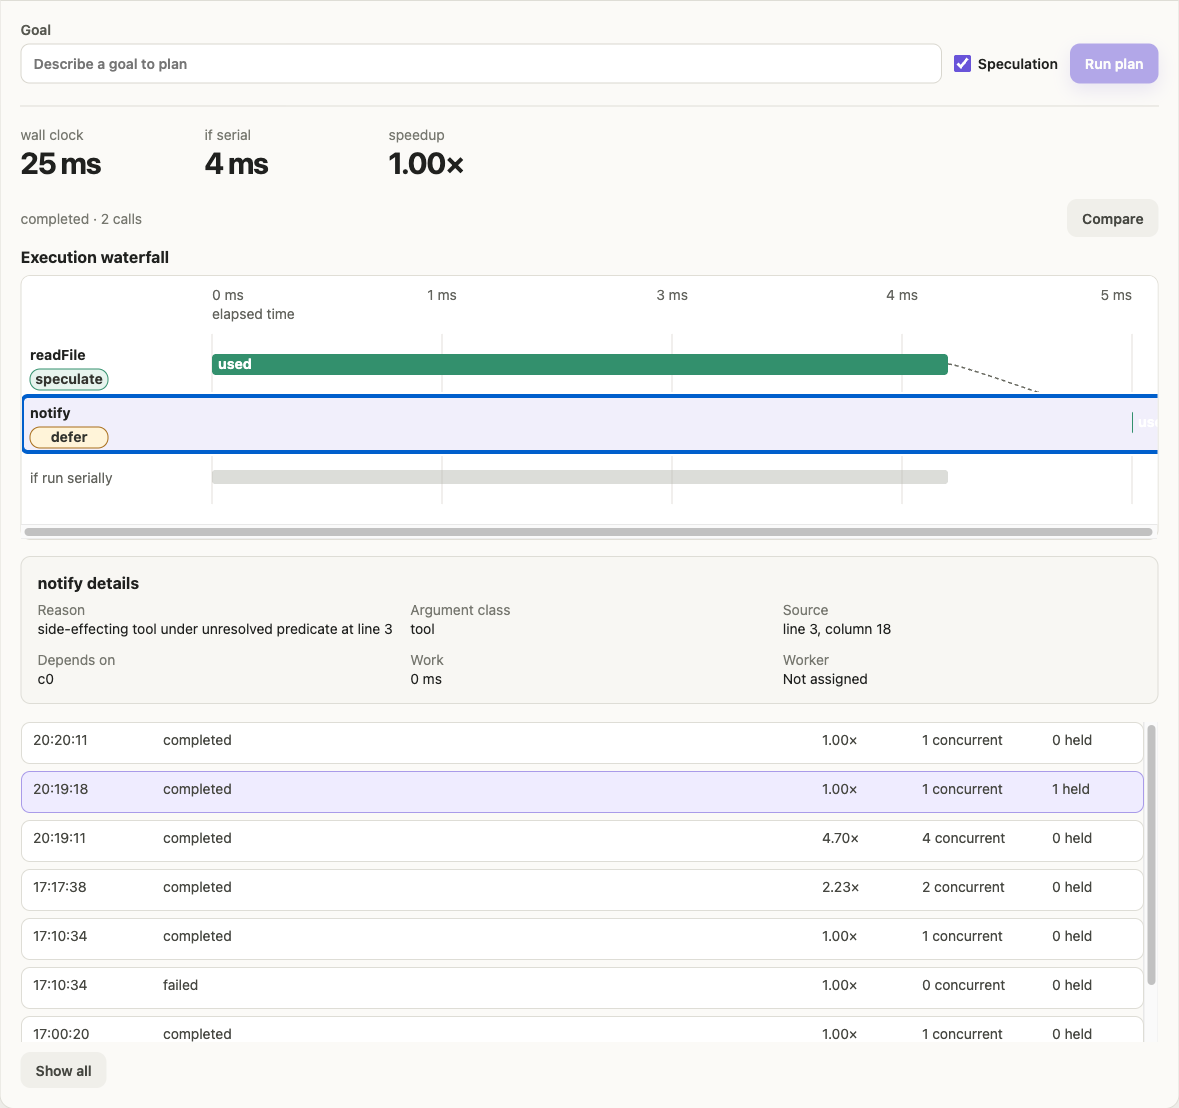
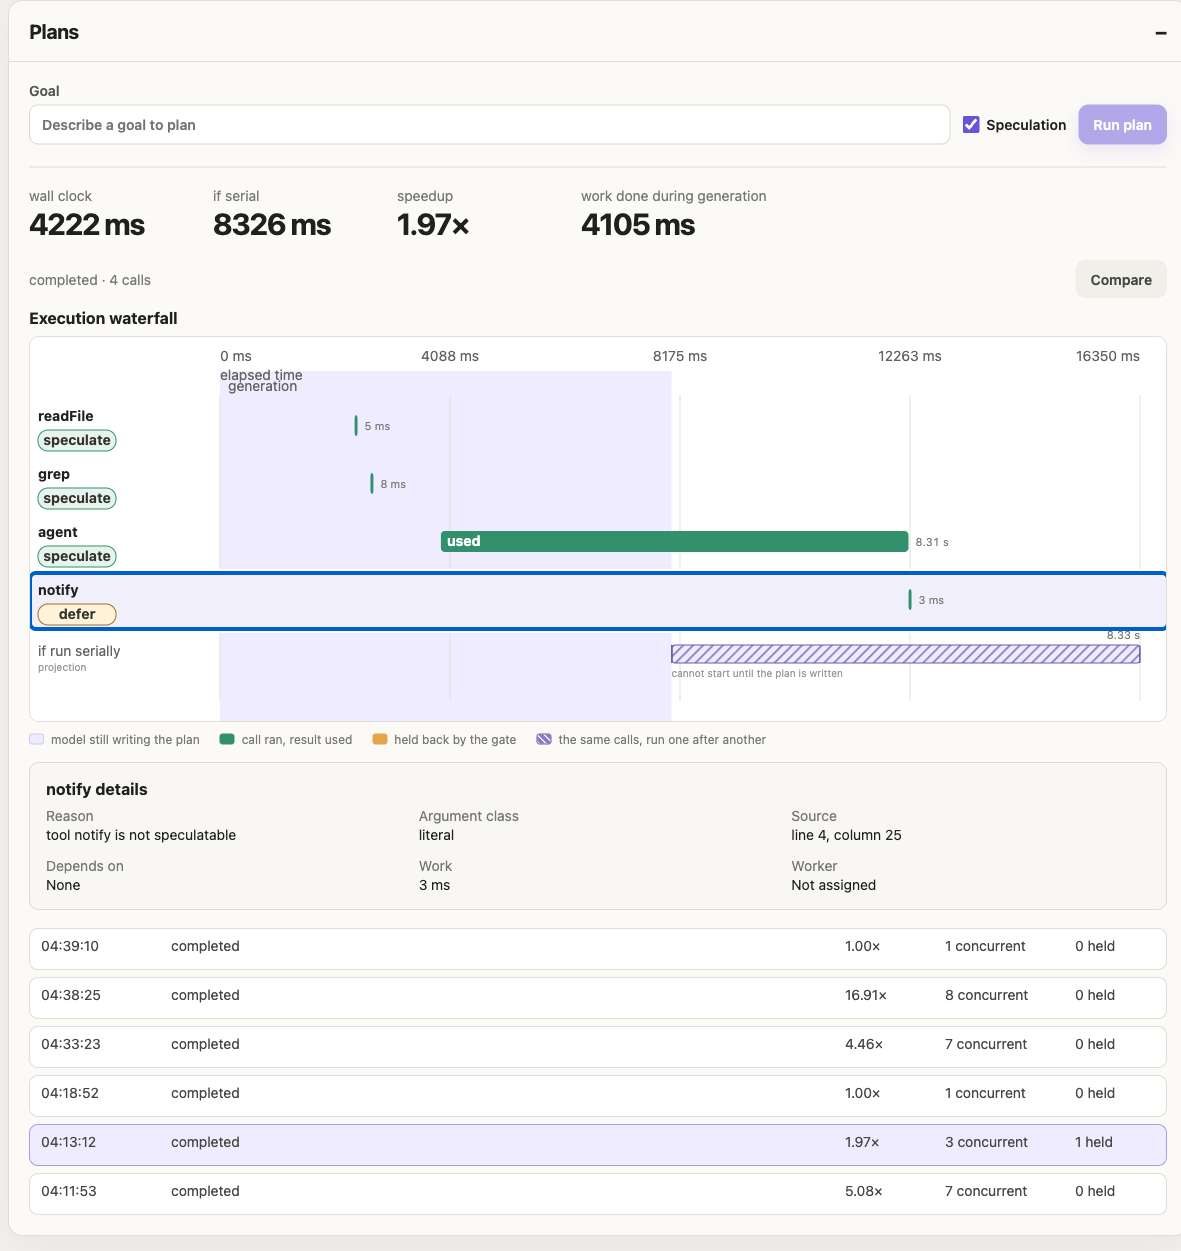
feat: make the waterfall readable as a waterfall
The chart hid its own conclusion. The serial counterfactual was scaled off
the concurrent span, so the strip ran `speedup` times wider than the panel
and its end sat behind a scrollbar — worse the better the result. It also
started at zero, claiming a serial run could begin before the plan had been
written, which put it behind the concurrent bars on slow plans.

- scale the axis to generation + serial so nothing needs scrolling
- start the projection where generation ends, and say why on the chart
- draw it hatched rather than filled; it is arithmetic, not measured work
- print each call's duration beside its bar, per waterfall convention
- raise the minimum bar width so a 5 ms tool stays visible beside a 9 s one
- add a legend and per-bar tooltips
- poll while a run is in flight so the chart fills as the plan executes

Screenshots and demo steps in the README regenerated to match.

diff --git a/apps/web/src/eptc/EptcPanel.tsx b/apps/web/src/eptc/EptcPanel.tsx
@@ -22,6 +22,12 @@ function formatTime(value: string): string {
   }).format(date);
 }
 
+/** Waterfall convention: print the duration beside every bar, in a unit the eye can compare. */
+function formatMs(ms: number): string {
+  if (ms < 1000) return Math.round(ms) + " ms";
+  return (ms / 1000).toFixed(ms < 10000 ? 2 : 1) + " s";
+}
+
 function outcomeColor(call: EptcCall): string {
   if (call.decision === "speculate" && call.outcome === "not_run") return "#b9781d";
   if (call.outcome === "used") return "#33906d";
@@ -56,7 +62,7 @@ function Waterfall({
     label: Math.round(fraction * layout.timeSpanMs) + " ms",
   }));
   const serialRowY = chartTop + Math.max(1, layout.rows.length) * rowHeight;
-  const height = serialRowY + serialRowHeight + 24;
+  const height = serialRowY + serialRowHeight + 44;
   const generationWidth = Math.min(layout.contentWidth, plan.totals.generationMs / layout.timeSpanMs * chartWidth);
 
   return (
@@ -66,11 +72,18 @@ function Waterfall({
         <svg
           className="eptc-waterfall-svg"
           width="100%"
-          style={{ minWidth: chartLeft + layout.contentWidth + 28 }}
-          viewBox={`0 0 ${chartLeft + layout.contentWidth + 28} ${height}`}
+          style={{ minWidth: chartLeft + layout.contentWidth + 96 }}
+          viewBox={`0 0 ${chartLeft + layout.contentWidth + 96} ${height}`}
           role="img"
           aria-label={`${label} waterfall showing ${plan.calls.length} calls`}
         >
+          <defs>
+            {/* Hatched so the counterfactual reads as a projection rather than measured work. */}
+            <pattern id="eptc-projection-hatch" width="7" height="7" patternUnits="userSpaceOnUse" patternTransform="rotate(45)">
+              <rect width="7" height="7" fill="#efecff" />
+              <line x1="0" y1="0" x2="0" y2="7" stroke="#8b7ac9" strokeWidth="3.5" />
+            </pattern>
+          </defs>
           {plan.totals.generationMs > 0 && (
             <g>
               <rect x={chartLeft} y={34} width={generationWidth} height={height - 34} fill="#efecff" />
@@ -112,21 +125,32 @@ function Waterfall({
                   <rect x={chartLeft + row.leadingStart} y={y + 16} width={row.leadingWidth} height={5} rx={2} className="eptc-leading-bar" />
                 )}
                 <rect x={chartLeft + row.start} y={y + 12} width={row.width} height={21} rx={4} fill={outcomeColor(row.call)} />
-                <text x={chartLeft + row.start + 6} y={y + 27} className="eptc-bar-label">{row.call.outcome}</text>
+                {row.width > 46 && <text x={chartLeft + row.start + 6} y={y + 27} className="eptc-bar-label">{row.call.outcome}</text>}
+                <text x={chartLeft + row.start + row.width + 7} y={y + 27} className="eptc-bar-duration">{formatMs(row.call.workMs)}</text>
+                <title>{`${row.call.tool} · ${row.call.decision} · ${formatMs(row.call.workMs)} · ${row.call.outcome}`}</title>
               </g>
             );
           })}
           {layout.rows.length > 0 && (
             <g className="eptc-serial-strip">
-              <text x={8} y={serialRowY + 25} className="eptc-serial-label">if run serially</text>
+              <text x={8} y={serialRowY + 21} className="eptc-serial-label">if run serially</text>
+              <text x={8} y={serialRowY + 36} className="eptc-serial-caption">projection</text>
               {layout.ghostSegments.map((segment, index) => (
-                <rect key={index} x={chartLeft + segment.start} y={serialRowY + 12} width={segment.width} height={14} rx={3} className="eptc-ghost-bar" />
+                <rect key={index} x={chartLeft + segment.start} y={serialRowY + 10} width={segment.width} height={18} rx={3} className="eptc-ghost-bar" />
               ))}
+              <text x={chartLeft + layout.ghostSegments[0].start + layout.ghostTotalWidth} y={serialRowY + 4} textAnchor="end" className="eptc-bar-duration">{formatMs(plan.totals.serialMs)}</text>
+              <text x={chartLeft + layout.ghostSegments[0].start} y={serialRowY + 42} className="eptc-serial-caption">cannot start until the plan is written</text>
             </g>
           )}
           {layout.rows.length === 0 && <text x={chartLeft} y={chartTop + 24} className="eptc-svg-label">No calls were produced for this plan.</text>}
         </svg>
       </div>
+      <ul className="eptc-legend">
+        <li><span className="eptc-swatch eptc-swatch-generation" />model still writing the plan</li>
+        <li><span className="eptc-swatch eptc-swatch-used" />call ran, result used</li>
+        <li><span className="eptc-swatch eptc-swatch-held" />held back by the gate</li>
+        <li><span className="eptc-swatch eptc-swatch-projection" />the same calls, run one after another</li>
+      </ul>
     </section>
   );
 }
@@ -158,6 +182,7 @@ export function EptcPanel({ agentId }: { agentId: string }) {
   const [speculation, setSpeculation] = useState(true);
   const [loading, setLoading] = useState(false);
   const [running, setRunning] = useState(false);
+  const [liveTarget, setLiveTarget] = useState<"plan" | "comparison" | null>(null);
   const [error, setError] = useState<string | null>(null);
 
   const loadPlans = useCallback(async () => {
@@ -201,6 +226,7 @@ export function EptcPanel({ agentId }: { agentId: string }) {
     event.preventDefault();
     if (!goal.trim()) return;
     setRunning(true);
+    setLiveTarget("plan");
     setError(null);
     setComparisonPlan(null);
     setSelectedCall(null);
@@ -211,6 +237,7 @@ export function EptcPanel({ agentId }: { agentId: string }) {
     } catch (reason) {
       setError(reason instanceof Error ? reason.message : String(reason));
     } finally {
+      setLiveTarget(null);
       setRunning(false);
     }
   };
@@ -218,6 +245,7 @@ export function EptcPanel({ agentId }: { agentId: string }) {
   const comparePlan = async () => {
     if (!selectedPlan) return;
     setRunning(true);
+    setLiveTarget("comparison");
     setError(null);
     try {
       const currentMode = selectedPlan.totals.maxConcurrent > 1 ? "concurrent" : "serial";
@@ -226,9 +254,30 @@ export function EptcPanel({ agentId }: { agentId: string }) {
     } catch (reason) {
       setError(reason instanceof Error ? reason.message : String(reason));
     } finally {
+      setLiveTarget(null);
       setRunning(false);
     }
   };
+
+  // The server persists each call as it settles, so poll while a run is in flight and draw the
+  // waterfall as it fills rather than only once the request returns.
+  useEffect(() => {
+    if (!liveTarget) return;
+    const knownIds = new Set(plans.map((plan) => plan.id));
+    let cancelled = false;
+    const timer = window.setInterval(() => {
+      void api.listPlans(agentId).then(({ plans: latest }) => {
+        const inFlight = latest.find((plan) => !knownIds.has(plan.id));
+        if (cancelled || !inFlight) return;
+        if (liveTarget === "plan") setSelectedPlan(inFlight);
+        else setComparisonPlan(inFlight);
+      }).catch(() => undefined);
+    }, 400);
+    return () => {
+      cancelled = true;
+      window.clearInterval(timer);
+    };
+  }, [liveTarget, agentId, plans]);
 
   const sharedSpan = useMemo(() => {
     if (!selectedPlan || !comparisonPlan) return undefined;

diff --git a/apps/web/src/eptc/waterfall.test.ts b/apps/web/src/eptc/waterfall.test.ts
@@ -52,7 +52,7 @@ function call(id: string, startedAt: number | null, endedAt: number | null, over
 
 describe("layoutWaterfall", () => {
   it("positions bars proportionally to the plan time span", () => {
-    const layout = layoutWaterfall(planWith([call("a", 25, 75), call("extent", 0, 100)], { wallClockMs: 100 }), 1000);
+    const layout = layoutWaterfall(planWith([call("a", 25, 75), call("extent", 0, 100)], { wallClockMs: 100, serialMs: 100 }), 1000);
     expect(layout.rows[0]).toMatchObject({ start: 250, width: 500 });
   });
 
@@ -81,12 +81,33 @@ describe("layoutWaterfall", () => {
 
   it("does not divide by zero for one instantaneous call", () => {
     const layout = layoutWaterfall(planWith([call("a", 0, 0)], { wallClockMs: 0, serialMs: 0 }), 1000);
-    expect(layout.rows[0]).toMatchObject({ start: 0, width: 1 });
+    expect(layout.rows[0]).toMatchObject({ start: 0, width: 3 });
     expect(Number.isFinite(layout.rows[0].start)).toBe(true);
   });
 
+  it("fits the serial ghost strip inside the chart so the overhang never needs scrolling", () => {
+    // Concurrent run finishes at 100ms; run serially the same work would take 400ms.
+    const layout = layoutWaterfall(planWith([call("a", 0, 100), call("b", 0, 100)], { wallClockMs: 100, serialMs: 400 }), 1000);
+    expect(layout.ghostTotalWidth).toBeLessThanOrEqual(1000);
+    expect(layout.contentWidth).toBe(1000);
+    expect(layout.rows[0].width).toBeLessThan(1000);
+  });
+
+  it("keeps a millisecond-scale call visible beside a slow one", () => {
+    const layout = layoutWaterfall(planWith([call("quick", 0, 5), call("slow", 0, 20000)], { serialMs: 20005 }), 1000);
+    expect(layout.rows[0].width).toBeGreaterThanOrEqual(3);
+  });
+
+  it("starts the serial counterfactual after generation, not at zero", () => {
+    // Generation takes 100ms; a serial run could not begin executing until it finished.
+    const layout = layoutWaterfall(planWith([call("a", 100, 300)], { generationMs: 100, serialMs: 200 }), 900);
+    // span = generationMs + serialMs = 300, so 100ms of generation is a third of the chart.
+    expect(layout.ghostSegments[0].start).toBeCloseTo(300, 5);
+    expect(layout.ghostSegments[0].start + layout.ghostSegments[0].width).toBeCloseTo(900, 5);
+  });
+
   it("connects dependency edges to their source and target rows", () => {
-    const layout = layoutWaterfall(planWith([call("source", 10, 40), call("target", 50, 80, { dependsOn: ["source"] })]), 1000);
+    const layout = layoutWaterfall(planWith([call("source", 10, 40), call("target", 50, 80, { dependsOn: ["source"] })], { serialMs: 80 }), 1000);
     expect(layout.edges).toEqual([{ fromId: "source", toId: "target", fromRow: 0, toRow: 1, fromX: 500, toX: 625 }]);
   });
 });

diff --git a/apps/web/src/eptc/layout.ts b/apps/web/src/eptc/layout.ts
@@ -26,7 +26,8 @@ export interface WaterfallLayout {
   contentWidth: number;
 }
 
-const minimumBarWidth = 1;
+/** Wide enough that a millisecond-scale tool still reads as a bar next to a slow one. */
+const minimumBarWidth = 3;
 
 function timestamp(value: string | number | null): number | null {
   if (typeof value === "number") return Number.isFinite(value) ? value : null;
@@ -58,7 +59,12 @@ export function layoutWaterfall(
     return parsed === null ? null : Math.max(0, parsed - executionOrigin);
   };
   const ends = plan.calls.map((call) => normalize(call.endedAt)).filter((value): value is number => value !== null);
-  const measuredSpan = Math.max(generationMs, ...ends, 0);
+  // A serial run could not start executing until the plan was finished being written, so the
+  // counterfactual begins at the end of generation rather than at zero.
+  const serialMs = Math.max(0, plan.totals.serialMs);
+  // The strip is `speedup` times longer than the concurrent run, so scaling to the concurrent
+  // span alone pushes the overhang off-screen exactly when the result is best.
+  const measuredSpan = Math.max(generationMs + serialMs, ...ends, 0);
   const timeSpanMs = Math.max(1, sharedTimeSpanMs ?? measuredSpan);
   const scale = chartWidth / timeSpanMs;
   const rows = plan.calls.map((call) => {
@@ -89,8 +95,8 @@ export function layoutWaterfall(
       toX: row.start,
     }];
   }));
-  const ghostTotalWidth = Math.max(0, plan.totals.serialMs) * scale;
-  let serialCursor = 0;
+  const ghostTotalWidth = serialMs * scale;
+  let serialCursor = generationMs;
   const ghostSegments = plan.calls.map((call) => {
     const segment = { start: serialCursor * scale, width: Math.max(0, call.workMs * scale) };
     serialCursor += Math.max(0, call.workMs);
@@ -102,6 +108,6 @@ export function layoutWaterfall(
     timeSpanMs,
     ghostTotalWidth,
     ghostSegments,
-    contentWidth: Math.max(chartWidth, ghostTotalWidth),
+    contentWidth: Math.max(chartWidth, (generationMs + serialMs) * scale),
   };
 }

diff --git a/apps/web/src/styles.css b/apps/web/src/styles.css
@@ -1207,8 +1207,20 @@ textarea:focus {
 }
 
 .eptc-ghost-bar {
-  fill: #acaea5;
-  opacity: 0.42;
+  fill: url(#eptc-projection-hatch);
+  stroke: #6b5aa8;
+  stroke-width: 1;
+}
+
+.eptc-bar-duration {
+  font-size: 11px;
+  font-variant-numeric: tabular-nums;
+  fill: #777870;
+}
+
+.eptc-serial-caption {
+  font-size: 10px;
+  fill: #9a9b93;
 }
 
 .eptc-leading-bar {
@@ -1415,4 +1427,36 @@ textarea:focus {
   .eptc-call-detail dl {
     grid-template-columns: 1fr;
   }
+}
+
+.eptc-legend {
+  display: flex;
+  flex-wrap: wrap;
+  gap: 6px 20px;
+  margin: 10px 0 0;
+  padding: 0;
+  list-style: none;
+  font-size: 12px;
+  color: var(--muted, #777870);
+}
+
+.eptc-legend li {
+  display: flex;
+  align-items: center;
+  gap: 7px;
+}
+
+.eptc-swatch {
+  width: 15px;
+  height: 11px;
+  border-radius: 3px;
+  flex: none;
+}
+
+.eptc-swatch-generation { background: #efecff; border: 1px solid #cfc6f5; }
+.eptc-swatch-used { background: #33906d; }
+.eptc-swatch-held { background: #e5a54a; }
+.eptc-swatch-projection {
+  border: 1px solid #6b5aa8;
+  background: repeating-linear-gradient(45deg, #efecff 0 2px, #8b7ac9 2px 5px);
 }

diff --git a/README.md b/README.md
@@ -6,7 +6,7 @@
 </p>
 
 <p align="center">
-  <img alt="112 server + 7 web tests" src="https://img.shields.io/badge/tests-119%20passing-33906d?style=flat-square&labelColor=20211f">
+  <img alt="112 server + 10 web tests" src="https://img.shields.io/badge/tests-122%20passing-33906d?style=flat-square&labelColor=20211f">
   <img alt="TypeScript" src="https://img.shields.io/badge/typescript-5-6954d9?style=flat-square&labelColor=20211f">
   <img alt="Node 22+" src="https://img.shields.io/badge/node-22%2B-6954d9?style=flat-square&labelColor=20211f">
   <img alt="median 3.27x" src="https://img.shields.io/badge/median-3.27%C3%97%20faster-33906d?style=flat-square&labelColor=20211f">
@@ -98,29 +98,29 @@ to be taken.
 ## See it
 
 <p align="center">
-  <img src="docs/media/waterfall.png" alt="The execution waterfall: four agent calls beginning inside the indigo generation band, a grey serial-counterfactual strip stretching far beyond them, and headline numbers reading 4623 ms wall clock against 21716 ms if serial." width="900">
+  <img src="docs/media/waterfall.png" alt="The execution waterfall: readFile, grep and five agent calls all beginning inside the indigo generation band, each labelled with its duration, above a hatched projection strip that starts where generation ends and runs to 33.3 seconds" width="900">
 </p>
 
-<p align="center"><b>Four calls, all started before the plan finished being written.</b><br>
-<sub>The indigo band is the model still generating. Every green bar begins inside it. The grey
-strip beneath is the same plan laid out serially — the overhang is the saving.
-<b>4,623 ms against 21,716 ms, with 9,164 ms of tool work done during generation.</b></sub></p>
+<p align="center"><b>Seven calls across three tools, every one of them started before the plan finished being written.</b><br>
+<sub>The indigo band is the model still generating; every bar begins inside it. The hatched strip is
+a projection, not measured work: the same calls laid end to end, starting where generation ends
+because without speculation nothing can run until the plan exists.
+<b>6,556 ms against 33,317 ms of work, with 11,910 ms of it executed during generation.</b></sub></p>
 
 <table>
 <tr>
-<td width="50%"><img src="docs/media/compare.png" alt="The same plan replayed serially beneath the original, both on a shared time axis: four overlapping bars above finishing near 9 seconds, four sequential bars below finishing near 20"></td>
-<td width="50%"><img src="docs/media/denial.png" alt="A plan where a notify call under a tainted predicate is marked defer, with the reason and source line"></td>
+<td width="50%"><img src="docs/media/compare.png" alt="The same plan replayed serially beneath the original on a shared axis: bars bunched at the left above, a descending staircase below" width="440"></td>
+<td width="50%"><img src="docs/media/denial.png" alt="A plan where a notify call is marked defer, with its reason, argument class and source position shown in a detail panel" width="440"></td>
 </tr>
 <tr>
-<td><b>Compare replays the same plan serially.</b> Above, four calls overlapping and done by
-about nine seconds; below, the same four as a staircase reaching twenty. One shared axis, so the
-difference is a length rather than a claim. Every number is rendered from the audit ledger — none
-of it is annotated afterwards.</td>
-<td><b>A deferral names its reason and its line.</b> <code>notify</code> under a predicate the
-analyzer cannot resolve reads <i>"side-effecting tool under unresolved predicate at line 3"</i>,
-with the source position, its dependency, and <code>Worker: Not assigned</code>. It runs only if
-execution reaches it. Being fast would have been the wrong answer here, and the layer worked that
-out without being asked.</td>
+<td><b>Compare replays the plan for real.</b> The hatched strip is arithmetic; this is a measured
+serial run on the same axis. Above, everything overlapping and done in 6,556 ms. Below, the same
+calls as a staircase taking 13,785 ms. The two serial figures differ because an agent turn is not
+deterministic in effort, which is exactly why the measured run is worth having.</td>
+<td><b>A held call names its reason and its line.</b> <code>notify</code> is registered as
+non-speculatable, so the gate refuses to start it early and says so, with the argument class, the
+source position and <code>Worker: Not assigned</code>. It still runs when execution reaches it.
+Refusal governs earliness, not whether a call happens.</td>
 </tr>
 </table>
 
@@ -190,21 +190,31 @@ Playground.
 If port 3000 is taken, `PORT=3100 PUBLIC_PORT=3100 npm run poc`.
 
 ```bash
-npm run check     # typecheck + 119 tests + both production builds
+npm run check     # typecheck + 122 tests + both production builds
 ```
 
 ## Demo steps
 
-1. Create an Agent from the sidebar and send it a task in the Playground — the baseline
-   platform is unchanged.
-2. Expand **Plans**, enter a goal such as *"research four independent drone subsystems, one
-   researcher agent call each"*, and press **Run plan** with **Speculation** ticked.
-3. The waterfall shows calls beginning **inside the generation band** — work running before
-   the model finished writing the plan.
-4. Press **Compare** to replay the same plan with speculation off, on a shared time axis.
-5. For the denial case, run a plan whose branch predicate reads a file and whose branch body
-   calls `notify`. The gate marks it `defer` with the reason and the source line, and the
-   notify log stays empty.
+1. Create an Agent from the sidebar and send it a task in the Playground — the baseline platform
+   is unchanged. Ask it to write a `notes.txt` containing a few `TODO:` lines and a `Deadline:`
+   line; the file tools read from the selected Agent's workspace, so the plans below need it.
+2. Expand **Plans** and run, with **Speculation** ticked:
+
+   > Read notes.txt and summarise it. Separately, search notes.txt for TODO. Separately, ask four
+   > sub-agents to each define one term in a single short sentence: vector database, agent memory,
+   > tool routing, prompt caching.
+
+   Bounding each sub-agent to one sentence matters. `agent()` is a full Codex turn, so an
+   open-ended prompt gives 60–90 s per call and the generation band shrinks to a sliver of the
+   chart. Run it twice; the first turn on each worker pays container startup.
+3. The waterfall shows every call beginning **inside the indigo generation band** — work running
+   before the model had finished writing the plan — with each call's duration beside its bar.
+4. Press **Compare** to replay the same plan serially and draw both on one axis. This re-executes
+   for real, so it takes about as long as the `if serial` figure on screen.
+5. For the denial case, run *"Read notes.txt, and if it mentions a deadline, notify the team on the
+   releases channel about it."* `notify` is registered non-speculatable, so the gate marks it
+   `defer`, names its reason and source position, and the notify log stays empty. It still runs
+   when execution reaches it.
 6. The plan list, decision reasons and per-call provenance remain inspectable throughout.
 
 ## Limitations
